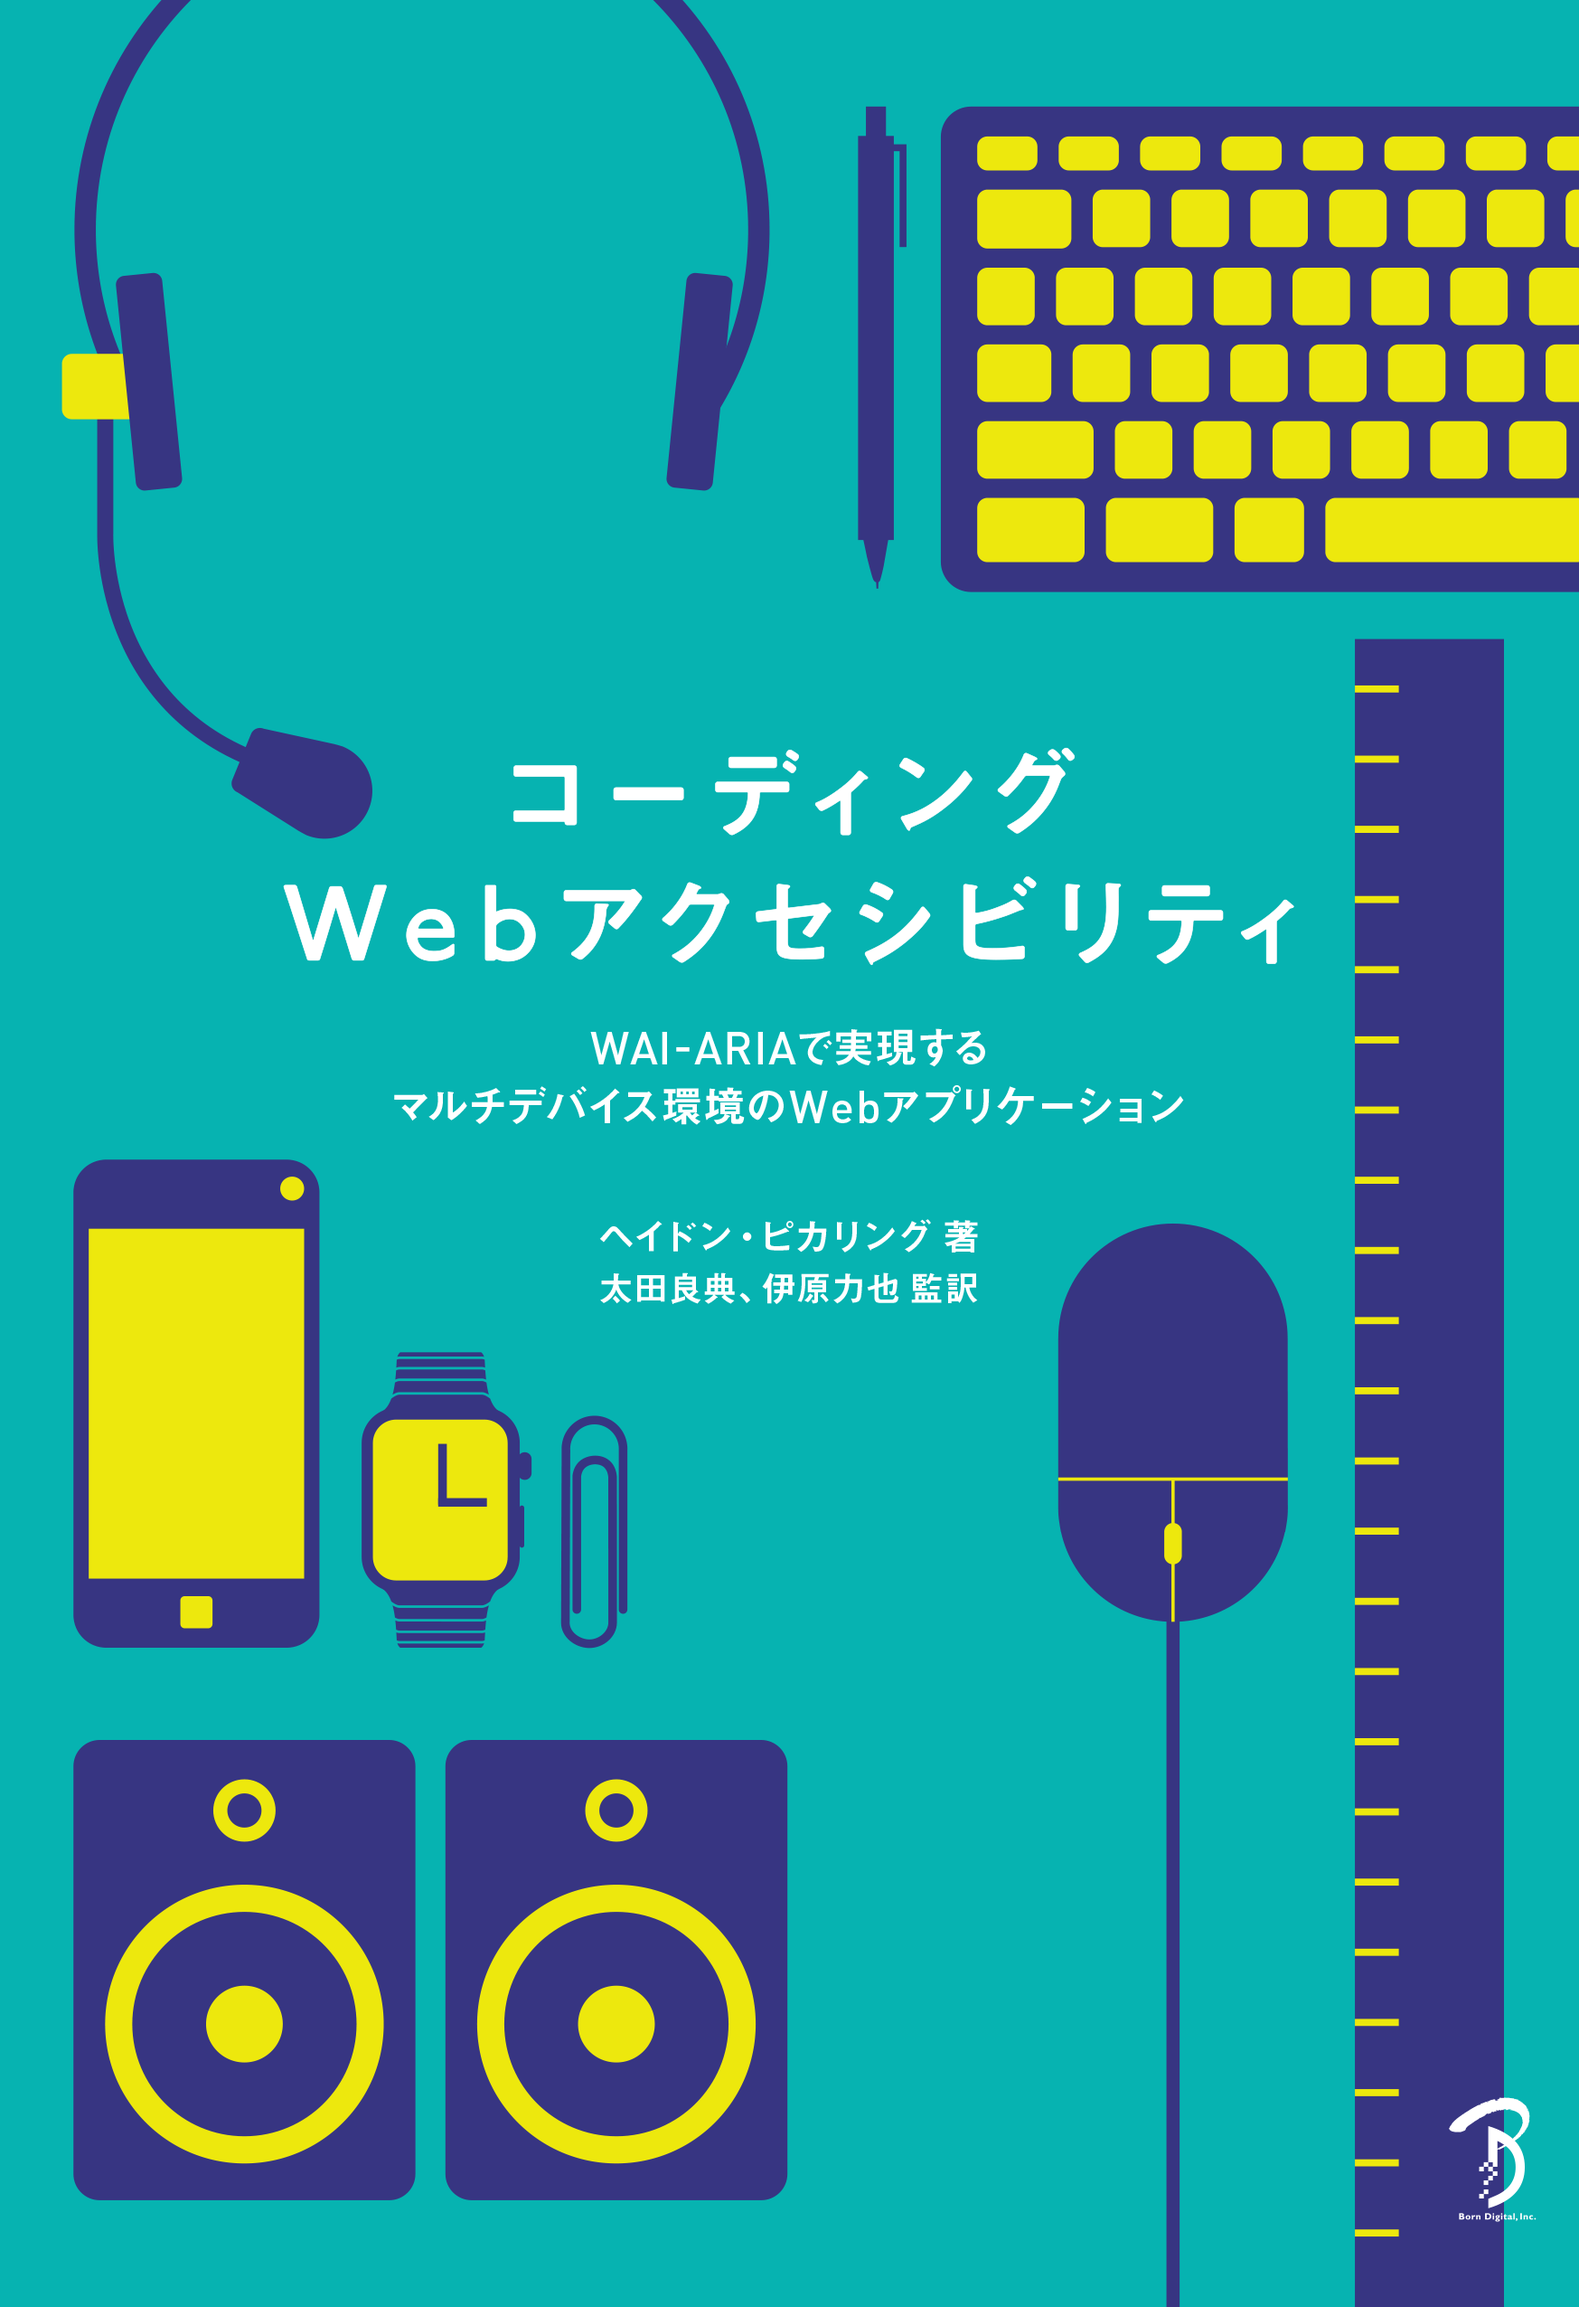
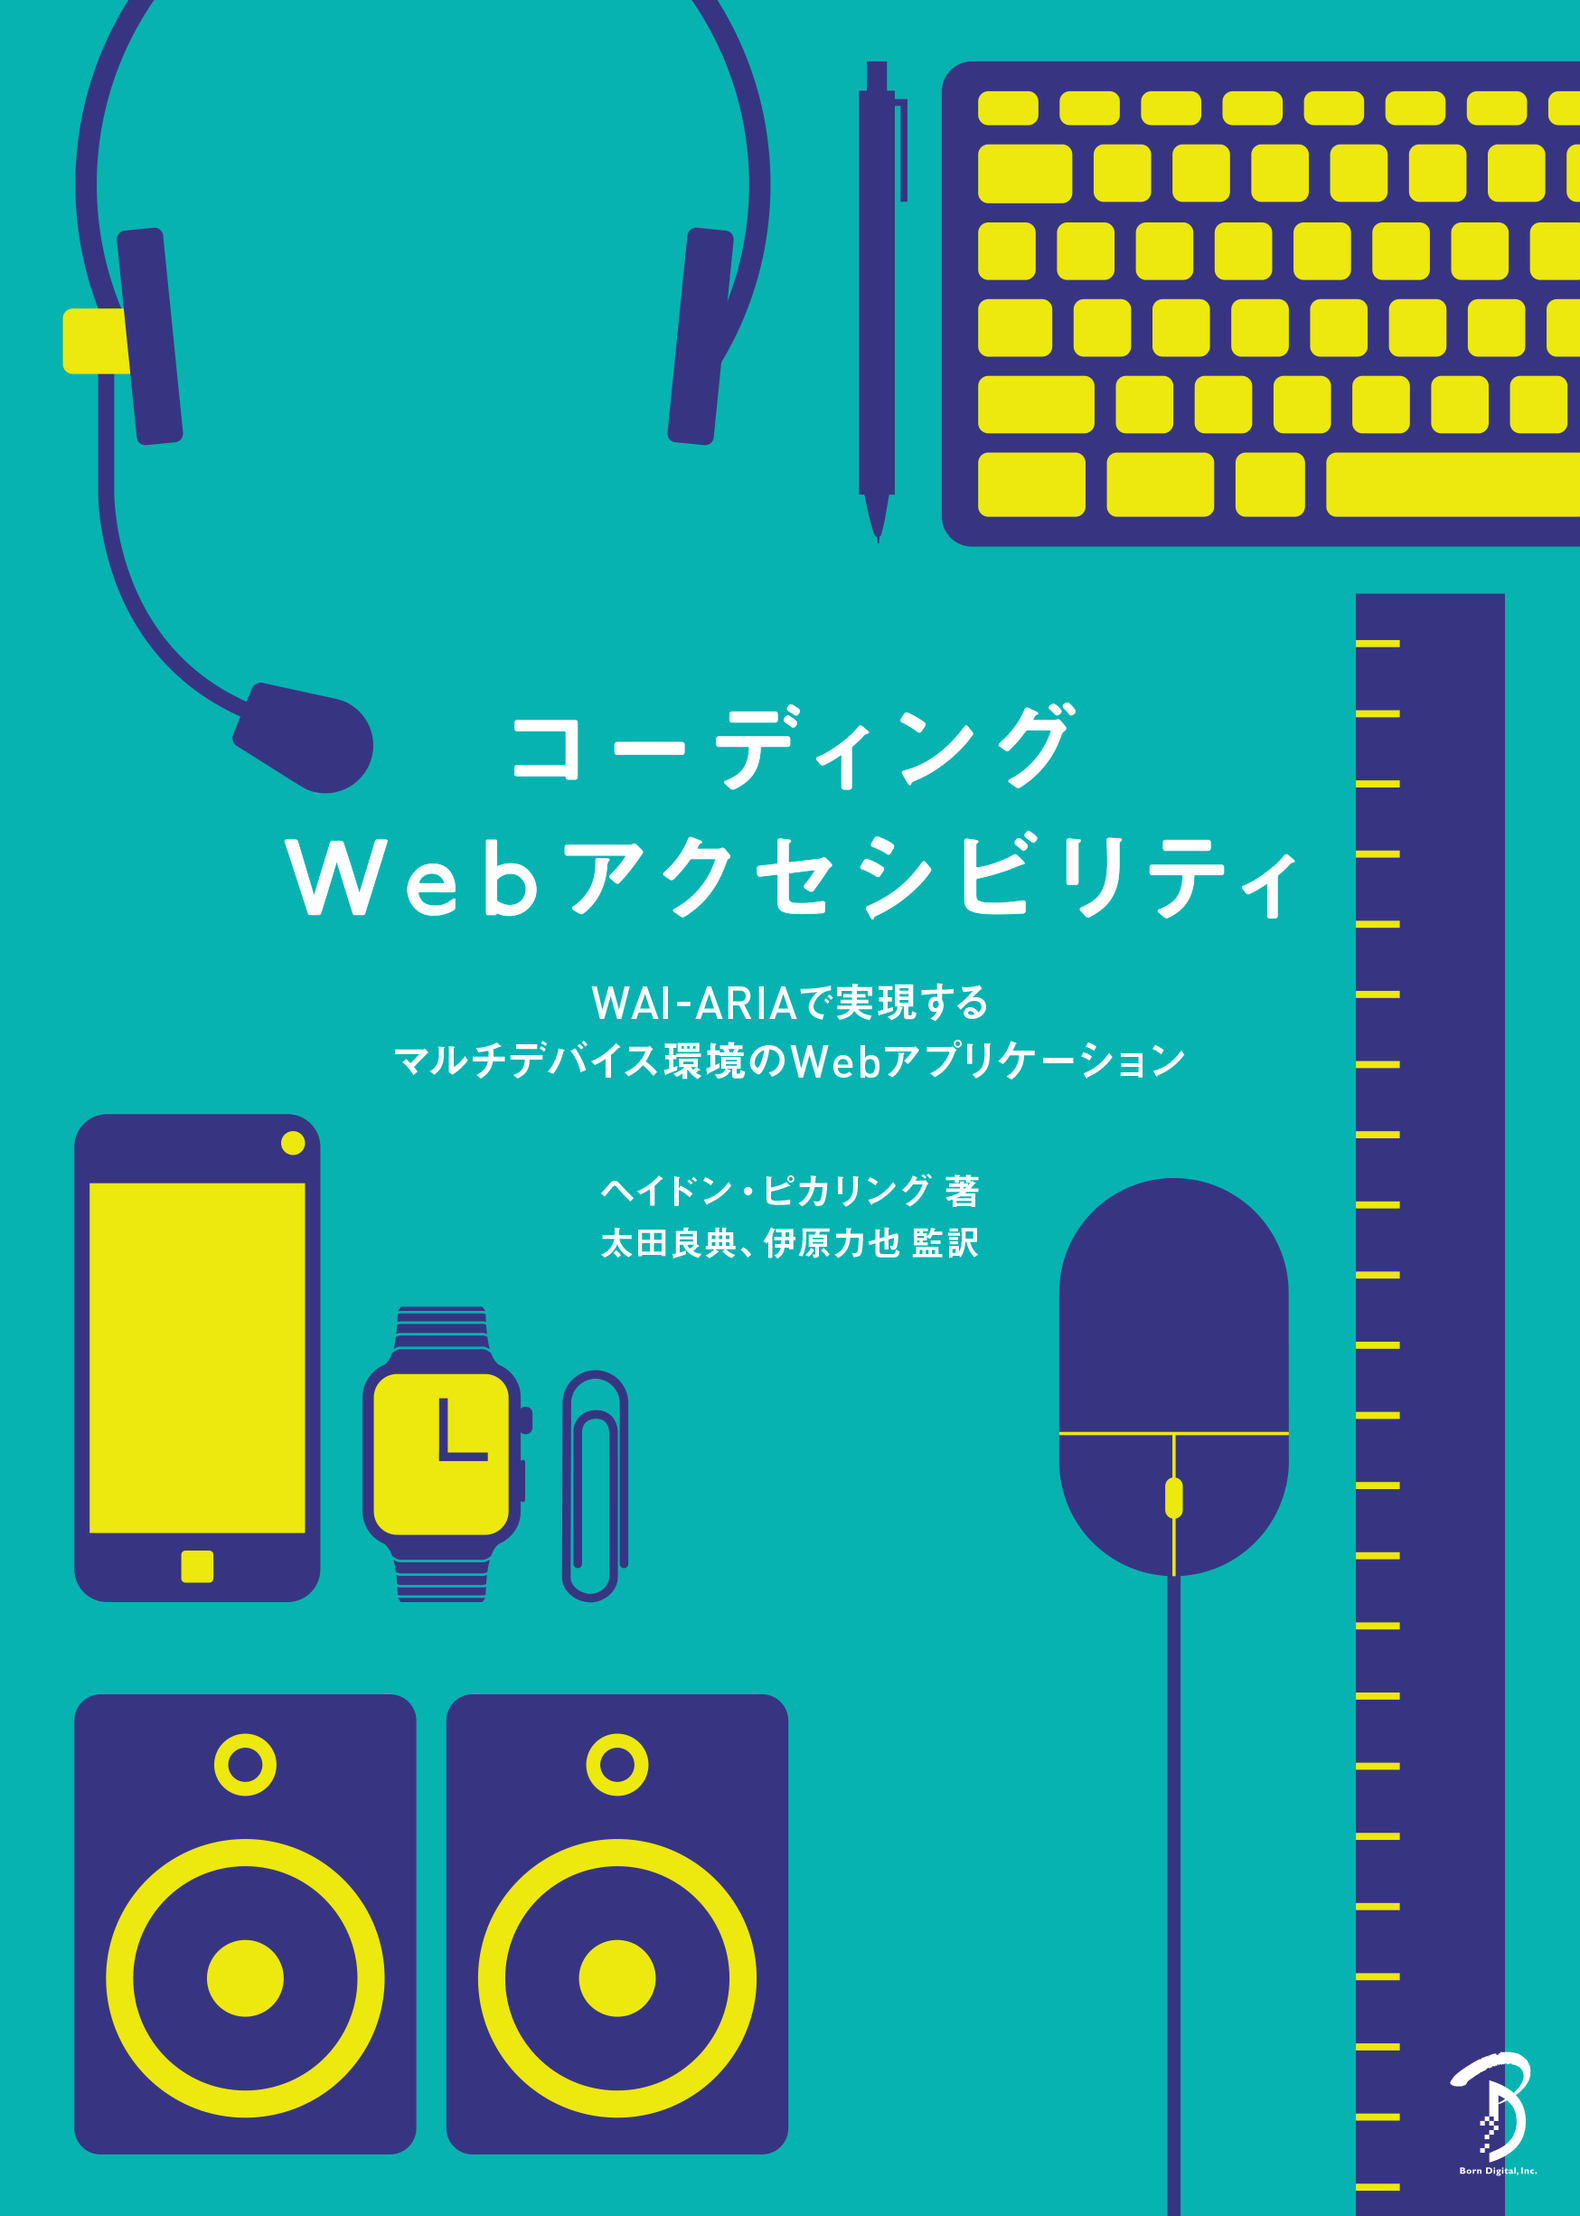
公開版作成に向けたファイル調整
・kindle向けスタイル準備（文字色・背景色指定除去）
・カバー画像の比率調整
・引用と訳注のスタイル微調整、不要スタイルの削除
・書誌情報のサンプル追加
・目次の微調整

diff --git a/kindle-css/style.css b/kindle-css/style.css
@@ -126,27 +126,33 @@ margin-top: 0;
 
 /* コード */
 code {
+/*
   padding: 0.2em;
   color: #000000;
   background-color: #f8f8f8;
   border-radius: 3px;
+*/
 }
 /* キーボード */
 kbd {
   display: inline-block;
   padding: 3px 5px;
-  color: #000000;
   vertical-align: baseline;
+/*
+  color: #000000;
   background-color: #fcfcfc;
-  border: solid 1px #ccc;
-  border-bottom-color: #bbb;
+*/
+  border: solid 1px /* #ccc */ #999;
+  border-bottom-color: /* #bbb */ #888;
   border-radius: 3px;
-  box-shadow: inset 0 -1px 0 #bbbbbb;
+  box-shadow: inset 0 -1px 0 /* #bbbbbb */ #888888;
 }
 /* syntax highlight */
 pre {
+/*
   background-color: #f8f8f8;
-  border: 1px solid #cccccc;
+*/
+  border: 1px solid /* #cccccc */ #999999;
 	border-radius: 3px;
 	line-height: 1.5;
 	padding:0.6em 1em;
@@ -162,32 +168,5 @@ pre code {
   background-color: transparent;
   border: none;
 }
-code > span.kw { color: #007020; /*font-weight: bold;*/ } /* Keyword */
-code > span.dt { color: #902000; } /* DataType */
-code > span.dv { color: #40a070; } /* DecVal */
-code > span.bn { color: #40a070; } /* BaseN */
-code > span.fl { color: #40a070; } /* Float */
-code > span.ch { color: #4070a0; } /* Char */
-code > span.st { color: #4070a0; } /* String */
-code > span.co { color: #60a0b0; font-style: italic; } /* Comment */
-code > span.ot { color: #007020; } /* Other */
-code > span.al { color: #ff0000; /*font-weight: bold;*/ } /* Alert */
-code > span.fu { color: #06287e; } /* Function */
-code > span.er { color: #ff0000; /*font-weight: bold;*/ } /* Error */
-code > span.wa { color: #60a0b0; /*font-weight: bold;*/ font-style: italic; } /* Warning */
-code > span.cn { color: #880000; } /* Constant */
-code > span.sc { color: #4070a0; } /* SpecialChar */
-code > span.vs { color: #4070a0; } /* VerbatimString */
-code > span.ss { color: #bb6688; } /* SpecialString */
-code > span.im { } /* Import */
-code > span.va { color: #19177c; } /* Variable */
-code > span.cf { color: #007020; /*font-weight: bold;*/ } /* ControlFlow */
-code > span.op { color: #666666; } /* Operator */
-code > span.bu { } /* BuiltIn */
-code > span.ex { } /* Extension */
-code > span.pp { color: #bc7a00; } /* Preprocessor */
-code > span.at { color: #7d9029; } /* Attribute */
-code > span.do { color: #ba2121; font-style: italic; } /* Documentation */
-code > span.an { color: #60a0b0; /*font-weight: bold;*/ font-style: italic; } /* Annotation */
-code > span.cv { color: #60a0b0; /*font-weight: bold;*/ font-style: italic; } /* CommentVar */
-code > span.in { color: #60a0b0; /*font-weight: bold;*/ font-style: italic; } /* Information */
+
+/* 以下シンタックスハイライトの指定削除 */
